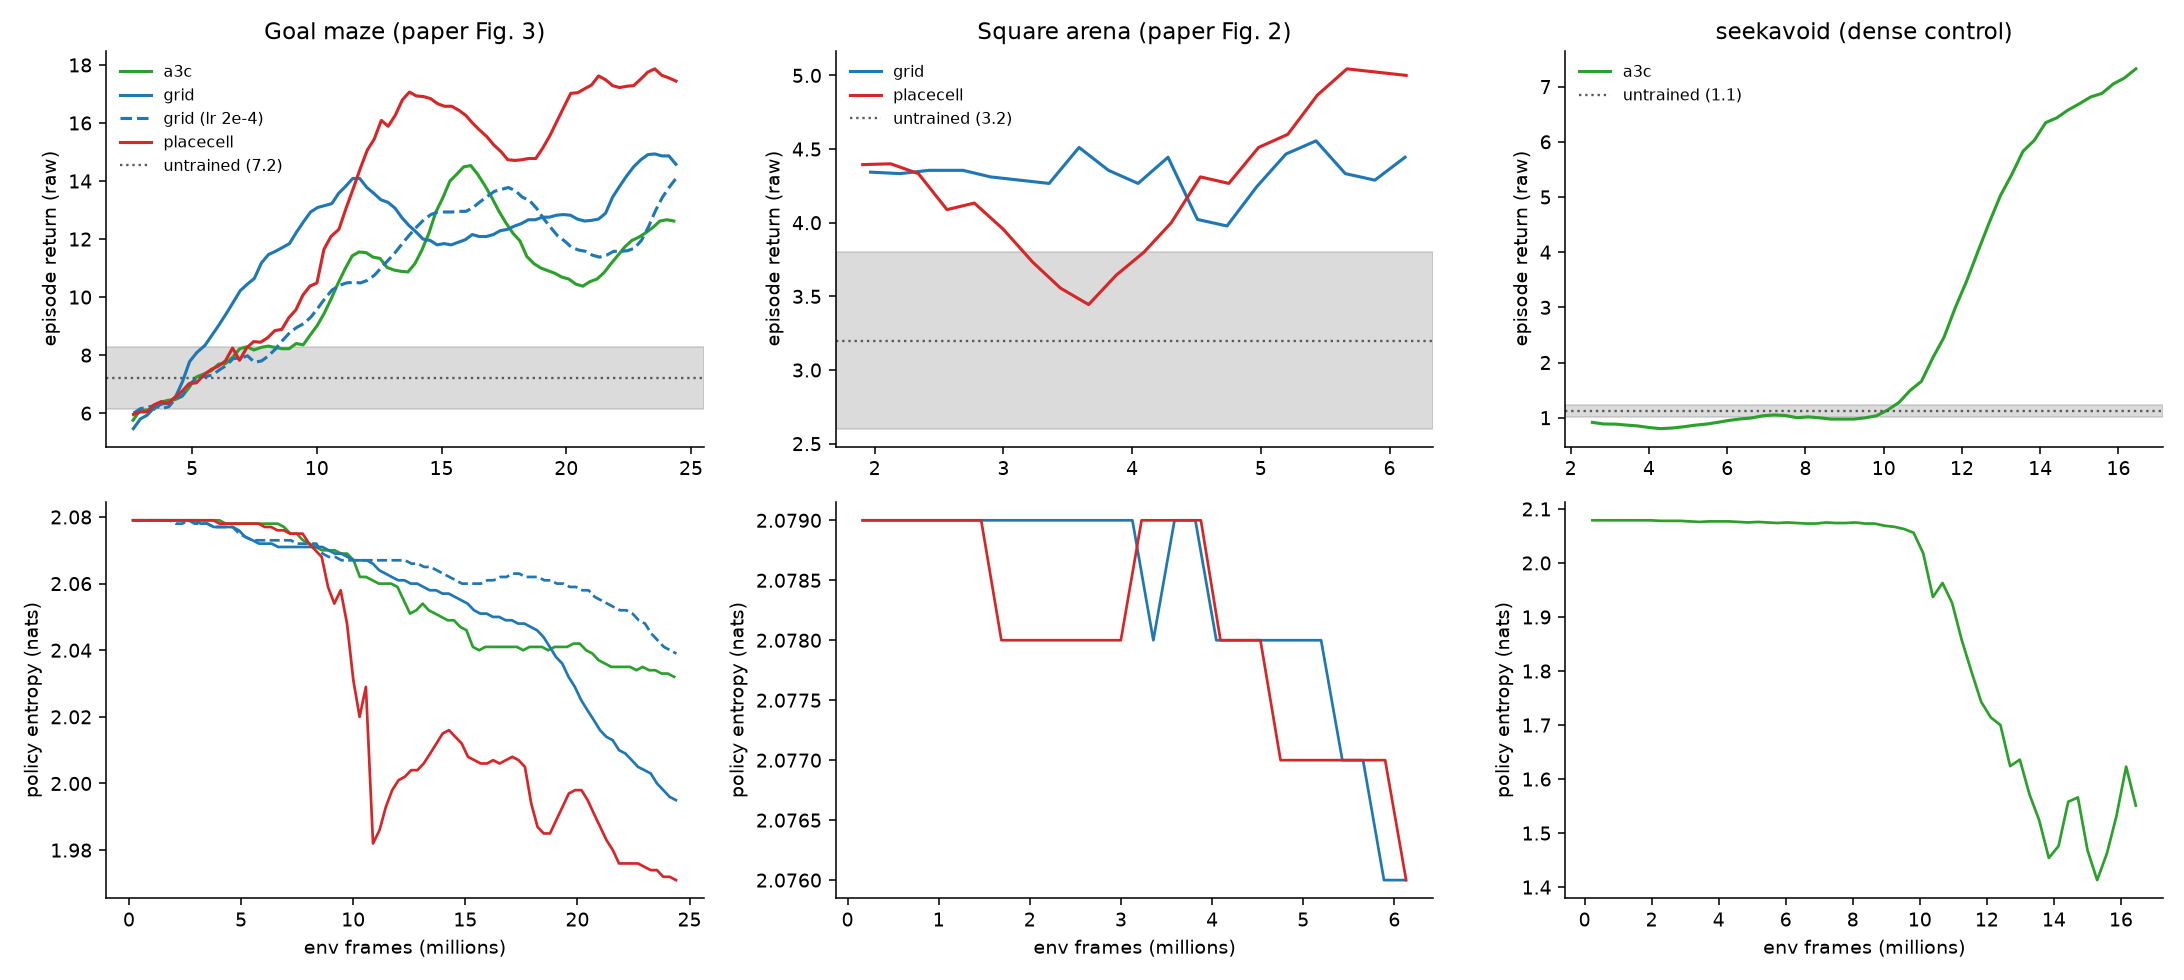
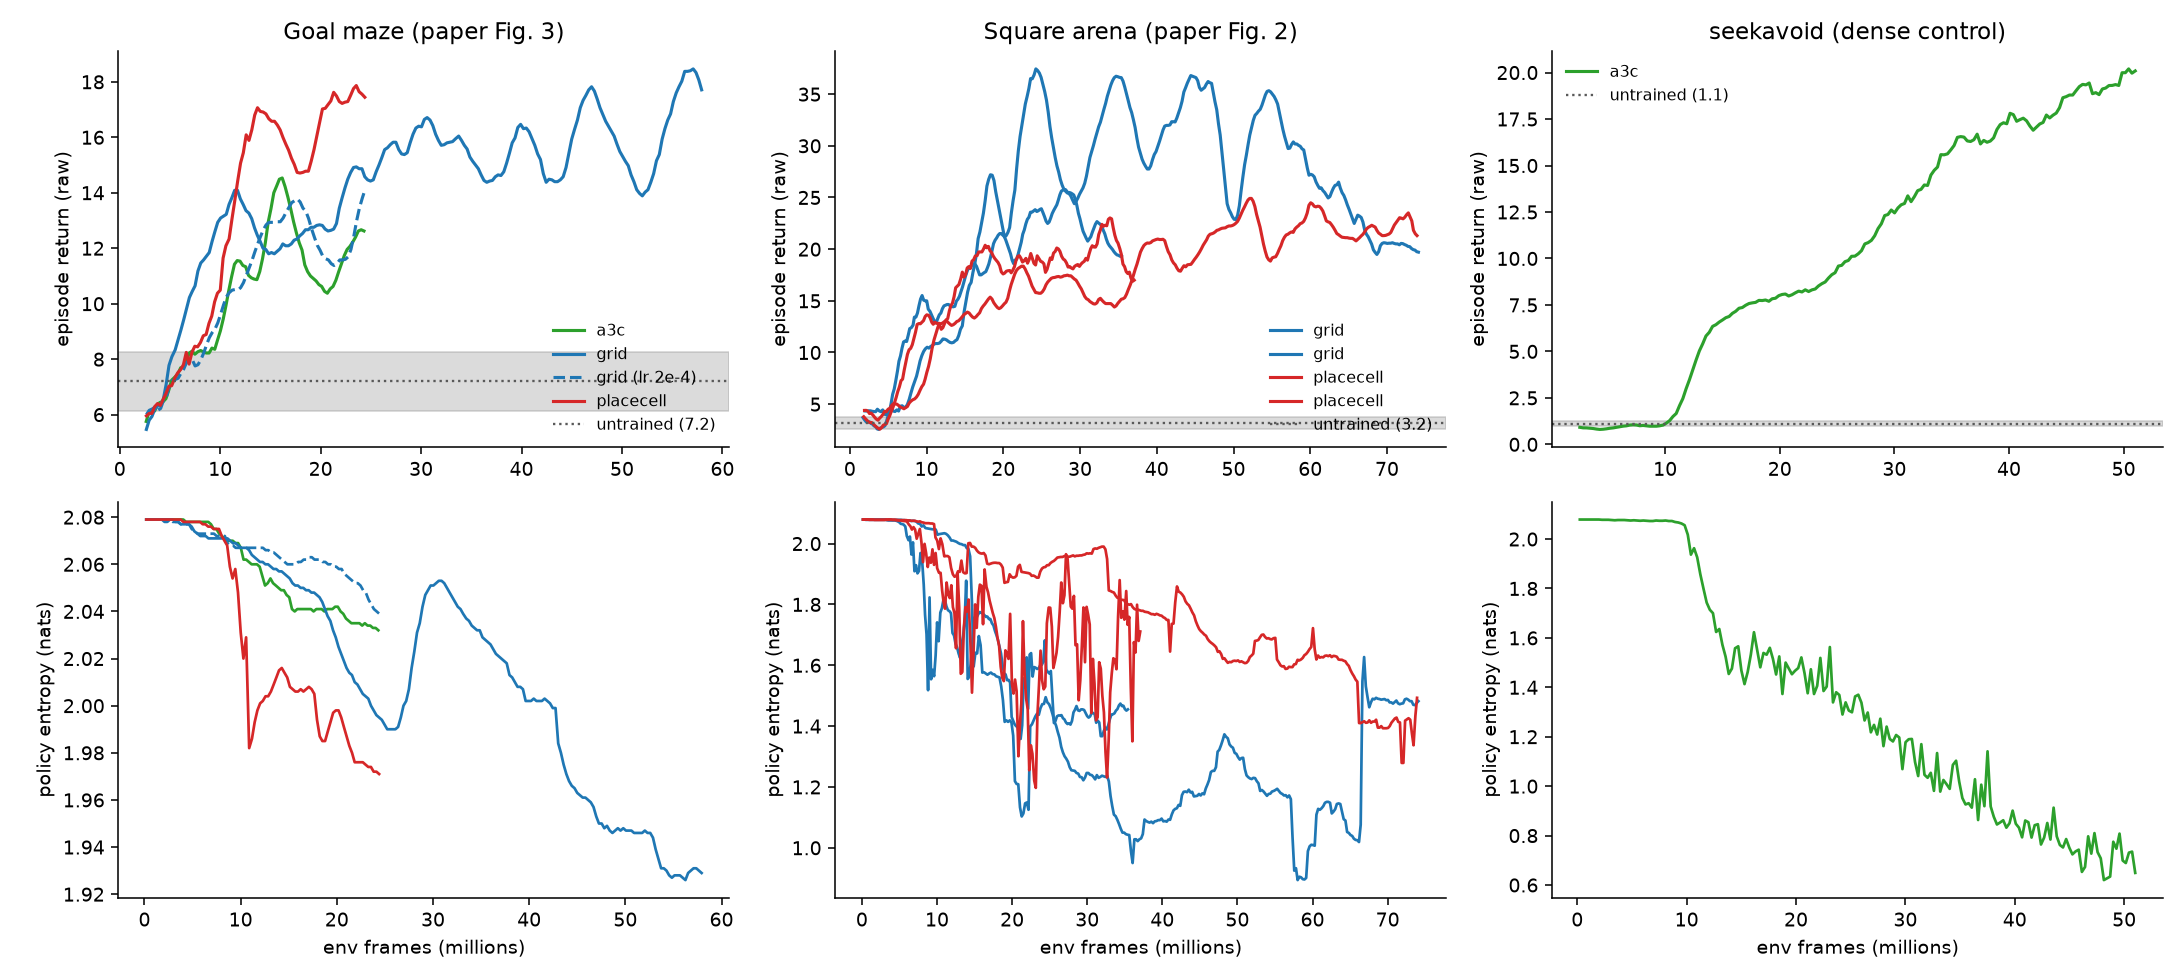
Arena grid advantage is transient, not a reproduction
The arena grid agent peaks at 37.8 (23M frames, >2x the place-cell
control) then regresses to 19.8 by 74M while place-cell climbs
monotonically to the same value; its entropy rises 1.06 -> 1.48, i.e. it
partially unlearns. A second seed run to test the separation does not
reproduce it (18.7 vs 17.8 at matched frames). Likely mechanism: the grid
module is retrained from replay throughout, so the policy's input
representation drifts under it.

finalize now also evaluates the checkpoint nearest each cell's peak
training return, since scoring only the final checkpoint would understate
architectures that peak and regress.

diff --git a/A3C_REPORT.md b/A3C_REPORT.md
@@ -132,10 +132,27 @@ pinned at exactly the maximum for the whole of the previous 10⁹-frame run.
 - **Goal maze (paper Fig. 3).** All four cells climb out of the untrained
   band at ~8–9M frames; 12–18 by 25M against chance 7.2. No agent separation
   yet (the paper's central claim), and it is far too early to expect one.
-- **Square arena (paper Fig. 2).** 4.4–5.0 against chance 3.2 ± 0.6 — above
-  baseline but only ~2σ, and moving slowly; these cells run 32 workers (the
-  paper's thread count) so they accumulate updates at half the maze cells'
-  rate.
+- **Square arena (paper Fig. 2) — an early grid advantage that does not
+  hold.** The grid agent learns much faster than the place-cell control at
+  first (peak 37.8 at 23M frames versus ~17 for place-cell, better than 2×),
+  which looked like a clean reproduction of Fig. 2f. It is not. The grid
+  agent then destabilises — 33 at 51M, 27 at 63M, 19.8 at 74M — while
+  place-cell climbs monotonically to the same 19.8, and the two finish at
+  parity. Policy entropy tracks it: the grid agent's *rises* from 1.06 back
+  to 1.48 over the decline, i.e. it partially unlearns.
+
+  A second independent seed, launched specifically to test the separation,
+  does not reproduce it either: at matched ~20M frames seed 1 gave grid 23.5
+  vs place-cell 16.9, while seed 2 gives 18.7 vs 17.8.
+
+  A plausible mechanism is visible in the logs: the grid module is retrained
+  from replay throughout training and its loss keeps oscillating (4.4–5.9),
+  so the policy's input representation shifts underneath a policy that has
+  already fitted to it. The place-cell agent's visual-code input drifts less.
+
+  This is exactly the failure mode that produced the previous report's false
+  conclusion, caught this time only because a replicate seed was run. Any
+  claim from a single seed here would have been wrong.
 
 ![learning curves](report/fig_a3c.png)
 
